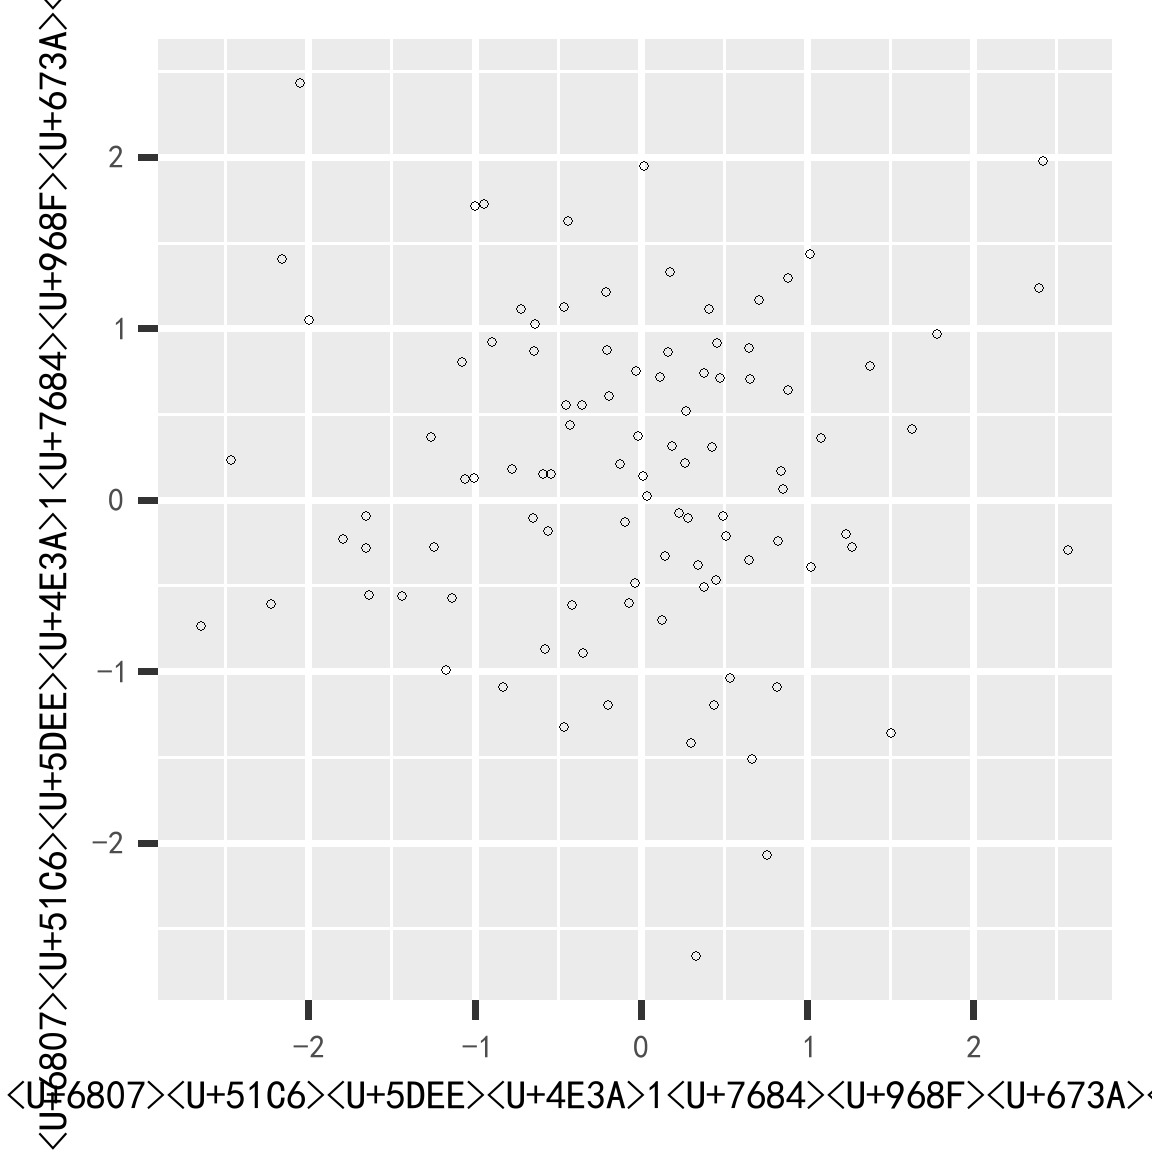
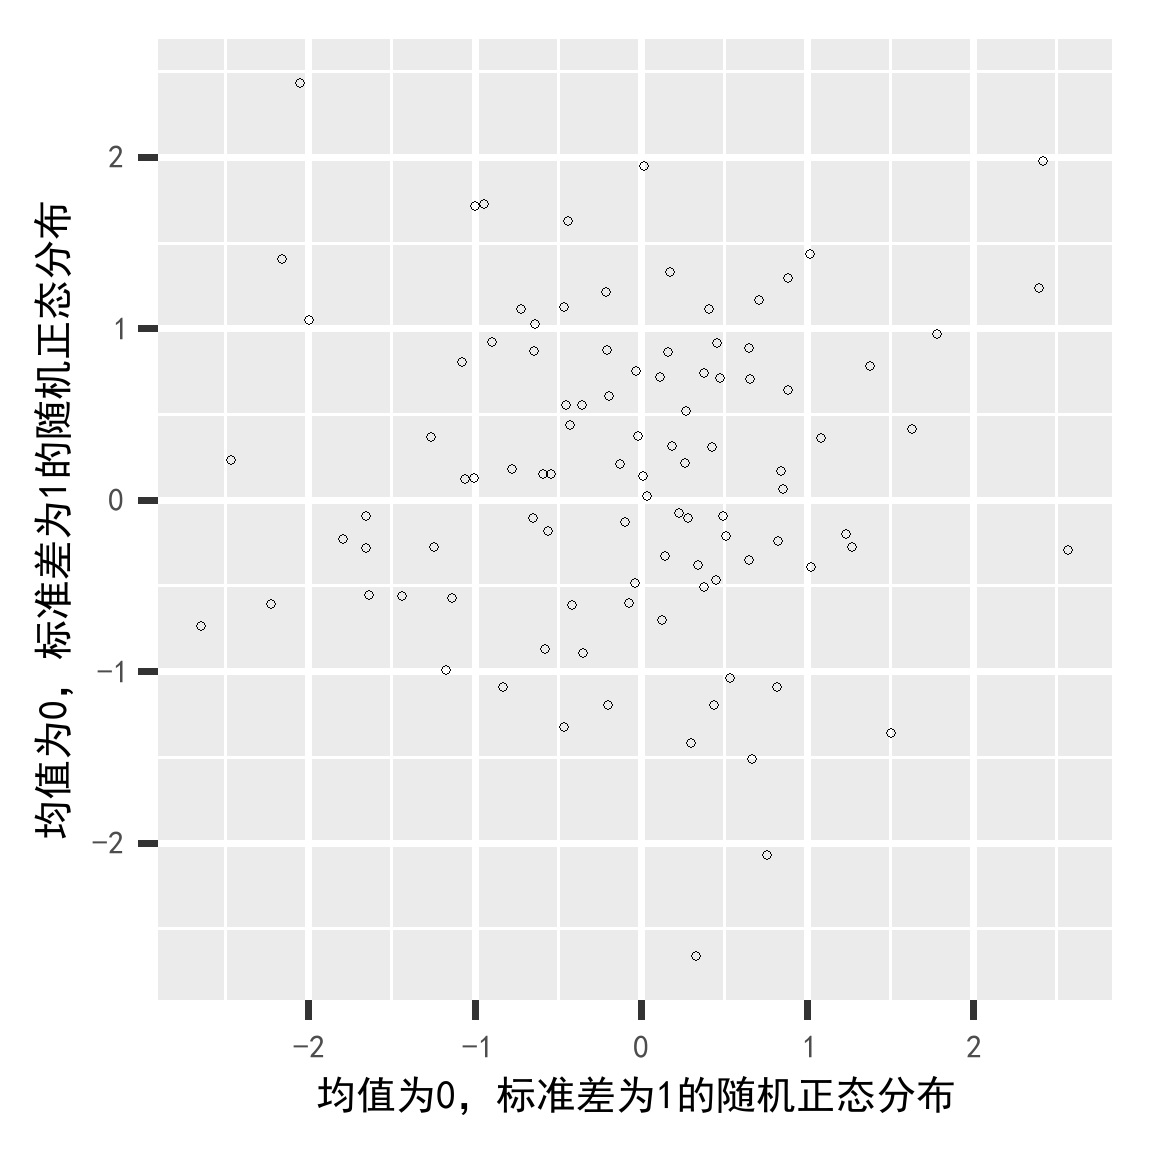
Minor revisements for wrong picture size and Chinese title

Changed region(s): [[0.0, 0.0, 1.0, 1.0]]

diff --git a/content/post/2017-12-31-using-other-system-chinese-fonts-in-r.html b/content/post/2017-12-31-using-other-system-chinese-fonts-in-r.html
@@ -369,9 +369,9 @@ scatter.plot &lt;- ggplot(data = xy,aes(x=x,y=y))+
   theme_grey(base_size = 30,base_family = &quot;heiti&quot;)
 print(scatter.plot)</code></pre>
 <div class="figure" style="text-align: center"><span id="fig:ggplot2example"></span>
-<img src="/post/2017-12-31-using-other-system-chinese-fonts-in-r_files/figure-html/ggplot2example-1.png" alt="&lt;U+57FA&gt;&lt;U+4E8E&gt;0,1&lt;U+6B63&gt;&lt;U+6001&gt;&lt;U+5206&gt;&lt;U+5E03&gt;&lt;U+7684&gt;&lt;U+6563&gt;&lt;U+70B9&gt;&lt;U+56FE&gt;" width="576" />
+<img src="/post/2017-12-31-using-other-system-chinese-fonts-in-r_files/figure-html/ggplot2example-1.png" alt="基于0,1正态分布的散点图" width="576" />
 <p class="caption">
-Figure 1: &lt;U+57FA&gt;&lt;U+4E8E&gt;0,1&lt;U+6B63&gt;&lt;U+6001&gt;&lt;U+5206&gt;&lt;U+5E03&gt;&lt;U+7684&gt;&lt;U+6563&gt;&lt;U+70B9&gt;&lt;U+56FE&gt;
+Figure 1: 基于0,1正态分布的散点图
 </p>
 </div>
 <p>Ok!大功告成！</p>

diff --git a/content/post/2018-05-11-i-am-happty-to-get-the-correlation-between-ige-of-body-weight-and-dge-of-survival.html b/content/post/2018-05-11-i-am-happty-to-get-the-correlation-between-ige-of-body-weight-and-dge-of-survival.html
@@ -17,7 +17,6 @@ header:
 
 
 <p>收获体重IGE与存活性状DGE之间的遗传相关，模型较为复杂，成功调试出来，有相当难度的。具体时间应该是在2018年的3月份解决了该问题。是通过父母本模型解决的上述问题。</p>
-<div class="figure">
-<img src="/post/images/IGEandDGEcor.jpg" alt="收获体重IGE与存活性状DGE之间的遗传相关" />
-<p class="caption">收获体重IGE与存活性状DGE之间的遗传相关</p>
+<div>
+<p><img src = "/post/images/IGEandDGEcor.jpg" alt = "收获体重IGE与存活性状DGE之间的遗传相关" height = "300" width = "100%"></p>
 </div>
